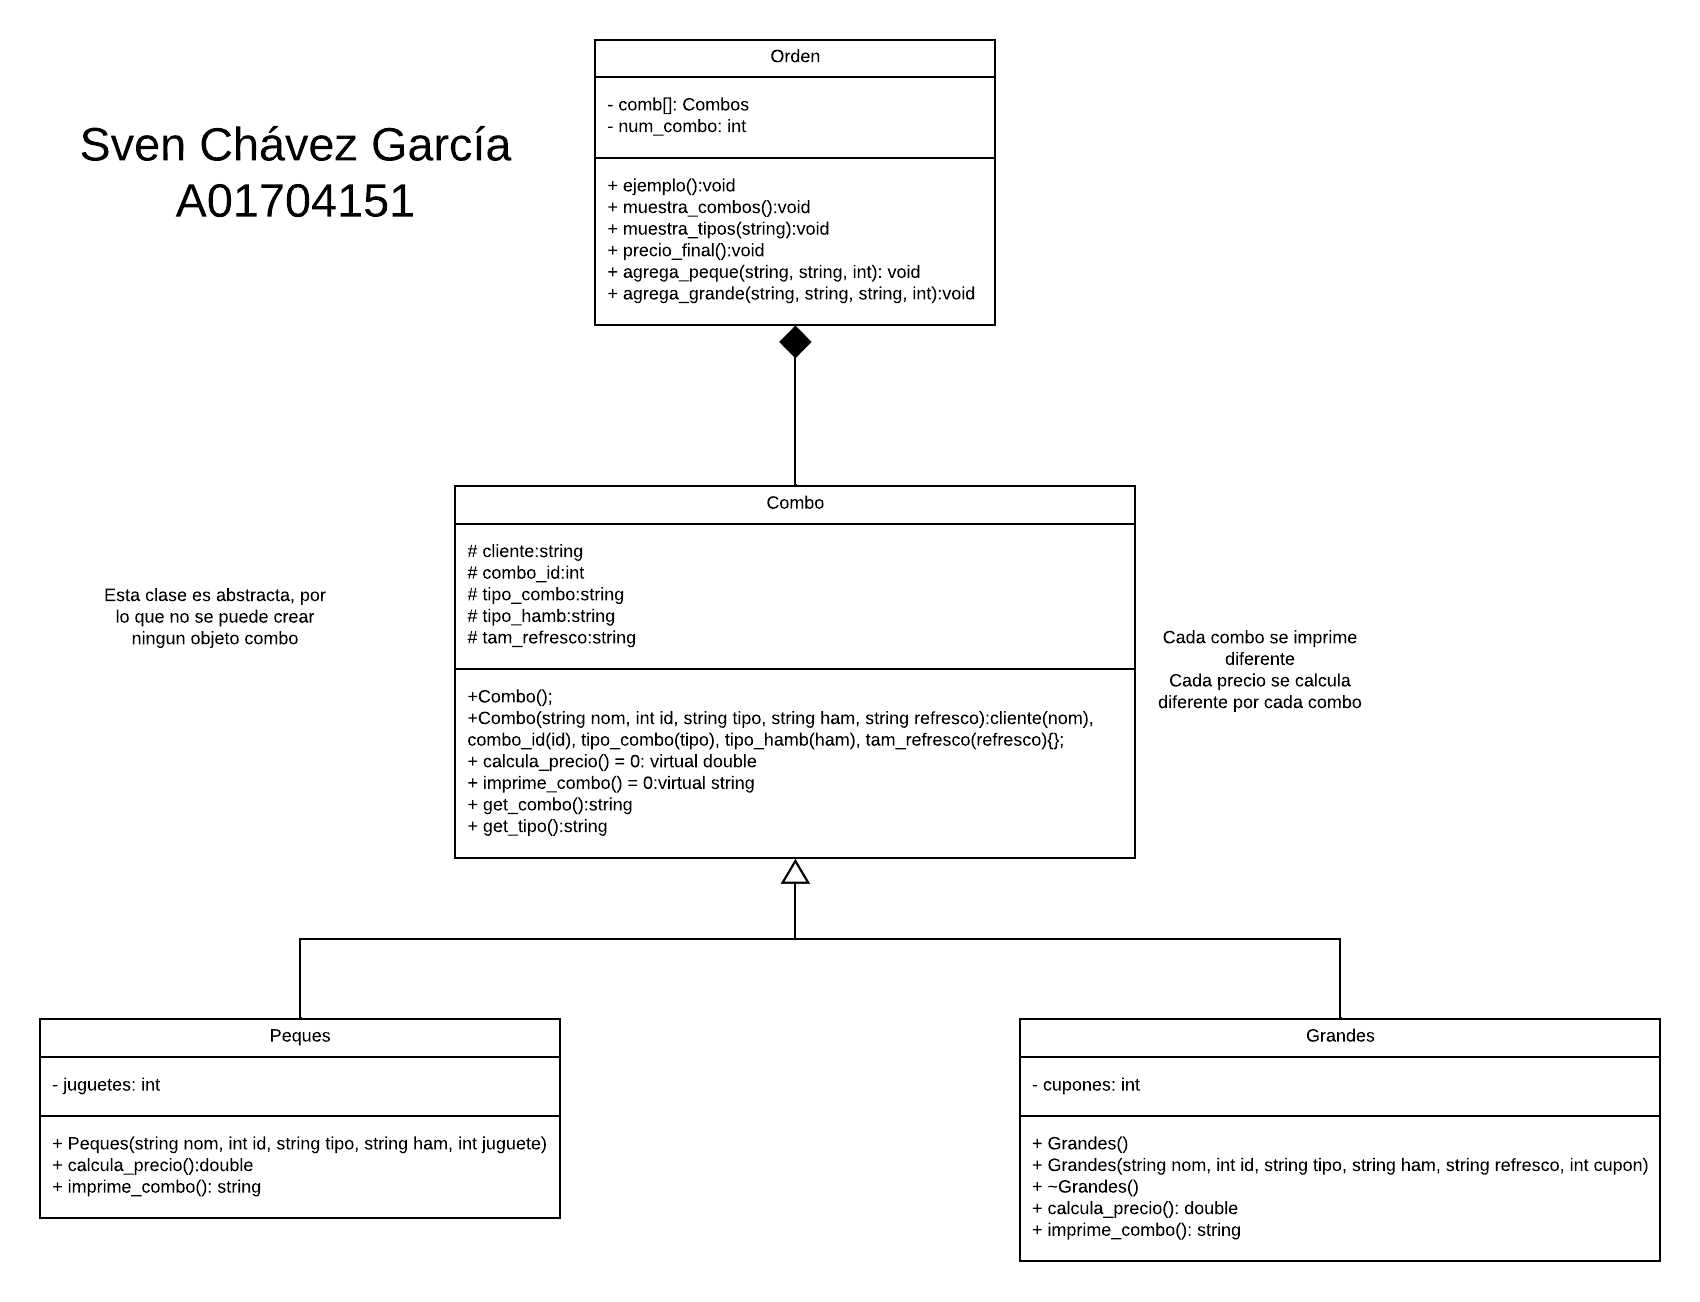
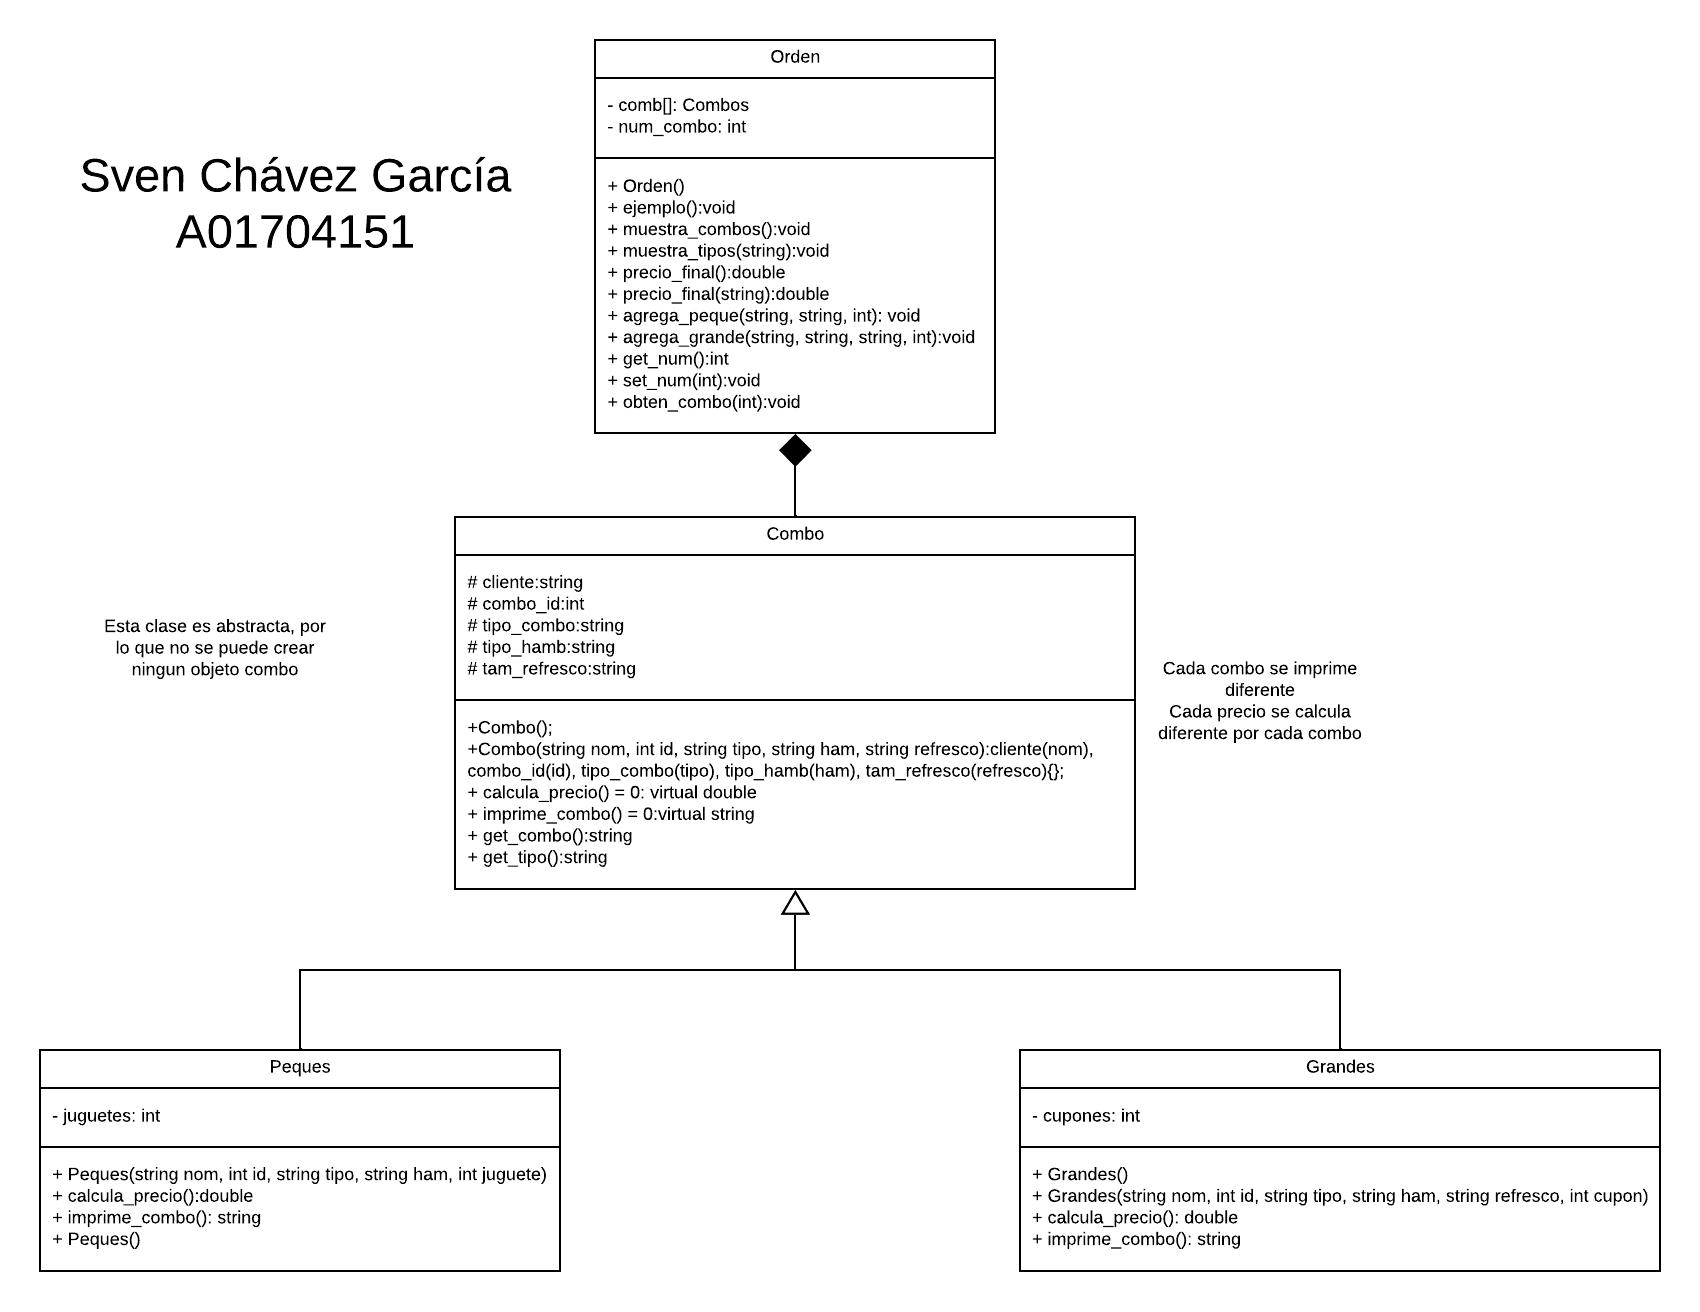
Add files via upload

diff --git a/Combo.h b/Combo.h
@@ -5,8 +5,7 @@
 #include <sstream>
 using namespace std;
 
-class Combo
-{
+class Combo{
 protected:
     string cliente;
     int combo_id;
@@ -15,72 +14,73 @@ protected:
     string tam_refresco;
 
 public:
+    Combo(): cliente("na"), combo_id(0), tipo_combo("na"), tipo_hamb("sencilla"), tam_refresco("chico"){};
     Combo(string nom, int id, string tipo, string ham, string refresco):cliente(nom), combo_id(id), tipo_combo(tipo), tipo_hamb(ham), tam_refresco(refresco){};
     virtual double calcula_precio() = 0; //aplicamos abstaccion o virtual puro por lo que no se puede crear un objeto combo 
-    virtual string imprime_combo(){string aux = "no aplica"; return aux;}; //aplicamos polimorfismo a traves del virtual
+    virtual string imprime_combo() = 0; //aplicamos polimorfismo a traves del virtual
     string get_combo();
     string get_tipo();
 };
-
+// este metodo regresa el tipo de combo y el cliente correspondiente 
 string Combo::get_combo(){
     string aux;
-    aux = " "+cliente+" de tipo: "+tipo_combo+"\n";
+    aux = " "+cliente+" de tipo: "+tipo_combo+"\n"; // se crea un auxiliar para el combo 
     return aux;
 }
-
+// devuelve el tipo 
 string Combo::get_tipo(){
     return tipo_combo;
 }
-
-class Peques: public Combo {
+// creamos la clase combo que sera hija de combo y por lo tanto se utiliza herencia
+class Peques: public Combo { //hacemos publica la clase combo 
 private:
     int juguetes;
 public:
-    //Peques(); //constructor default
+    Peques(): Combo(), juguetes(0){};
     Peques(string nom, int id, string tipo, string ham, int juguete):
     Combo(nom, id, tipo, ham, "pequeno"), juguetes(juguete){}; // constructor
     //~Peques();
-    double calcula_precio();
-    string imprime_combo();
+    double calcula_precio(); // aqui se aplica el polimorfismo 
+    string imprime_combo(); // aqui tambien aplica polimorfismo 
 };
 
+// se calcula el precio del combo considerando que es de tipo peques
 double Peques::calcula_precio(){
 
     double precio_ham, precio_juguetes;
     double precio_refresco = 25.5;
 
-    if (tipo_hamb == "doble"){
+    if (tipo_hamb == "doble"){// si la hmaburguesa es doble tiene un costo extra
         precio_ham = 89.9;
     }
-    else {precio_ham = 59.9;};
+    else {precio_ham = 59.9;}; // si la hamburguesa es sencilla tiene un costo base 
 
-    precio_juguetes = (double) juguetes * 35.5;
+    precio_juguetes = (double) juguetes * 35.5;// se considera a juguetes como double para multiplicarlo por el precio individual de cada uno
 
-    return precio_ham + precio_juguetes + precio_refresco;
+    return precio_ham + precio_juguetes + precio_refresco; // se devuelve la suma de todo 
 };
-
+// se imprime el combo considerando que es de tipo peques 
 string Peques::imprime_combo(){
-    stringstream prompt;
+    stringstream prompt; // se crea un auxiliar para concatenar un string 
     prompt<<"cliente: "<<cliente<<" su combo con numero: "<<combo_id<<" de tipo: Niños incluye una hamburguesa: "
     <<tipo_hamb<<" con refresco: pequeño y un total de "<<juguetes<<" juguetes."<<"\n"<<"Precio: "<<calcula_precio()<<"\n";
-    return prompt.str();
+    return prompt.str(); // se imprime el string 
 }
-
+// esta clase es hija de Combo 
 class Grandes: public Combo {
 private:
     int cupones;
 public:
-    Grandes(); // falta constructor default
+    Grandes(): Combo(), cupones(0){};
     Grandes(string nom, int id, string tipo, string ham, string refresco, int cupon):
-    Combo(nom, id, tipo, ham, refresco), cupones(cupon){};
-    ~Grandes();
-    double calcula_precio();
-    string imprime_combo();
+    Combo(nom, id, tipo, ham, refresco), cupones(cupon){}; // se asignan los atributos con el constructor 
+    double calcula_precio(); // polimorfismo
+    string imprime_combo(); // polimorfismo 
 };
-
+// se calcula el precio del combo basandose en las caracteristicas del combo grande 
 double Grandes::calcula_precio(){
-    double precio_ham, precio_juguetes, precio_refresco;
-    if (tam_refresco == "grande"){
+    double precio_ham, precio_juguetes, precio_refresco; // se definen las variables para cada uno de los articulos 
+    if (tam_refresco == "grande"){ // se avalua las caractristicas del combo 
         precio_refresco = 49.9;
     }
     else if (tam_refresco == "chico") {precio_refresco = 25.5;}
@@ -92,15 +92,15 @@ double Grandes::calcula_precio(){
     }
     else if (tipo_hamb == "sencilla") {precio_ham = 59.9;};
 
-    precio_juguetes = (double) cupones * 20;
+    precio_juguetes = (double) cupones * 20; // 
 
-    return precio_ham + precio_juguetes + precio_refresco;
+    return precio_ham + precio_juguetes + precio_refresco; // se regresa la suma de cada uno de los objetos 
 }
-
+// se imprime el combo correspondiente al combo grande (polimorfismo) 
 string Grandes::imprime_combo(){
     stringstream prompt;
     prompt<<"cliente: "<<cliente<<" su combo con numero: "<<combo_id<<" de tipo: Adulto incluye una hamburguesa: "
     <<tipo_hamb<<" con refresco: "<<tam_refresco<<" y un total de "<<cupones<<" cupones."<<"\n"<<"Precio: "<<calcula_precio()<<"\n";
-    return prompt.str();
+    return prompt.str(); // se regresa el string 
 }
 #endif

diff --git a/Orden.h b/Orden.h
@@ -1,5 +1,5 @@
 #ifndef ORDEN
-#define ORDEN
+#define ORDEN // se define para la clase orden 
 #include <iostream>
 #include <string>
 #include <sstream>
@@ -8,15 +8,13 @@
 
 const int MAX = 1000; //constante para un maximo de combos en una orden
 
-class Orden //aqui se creara la orden que contendra los combos
-{
+class Orden{ //aqui se creara la orden que contendra los combos
 private:
     Combo *comb[MAX]; //se define el arreglo de combos como apuntador
     int num_combo; //referencia para la posicion del arregglo
 
 public:
     Orden(): num_combo(0) {}; //constructor por default
-   // ~Orden(); //destructor
     void ejemplo();
     void muestra_combos();
     void muestra_tipos(string tipo);
@@ -28,78 +26,80 @@ public:
     int get_num(){return num_combo;};
     void set_num(int numero_combo);
 };
-// se crean ejemplos para el programa
+// se crean ejemplos de combo para el programa (objetos)
 void Orden::ejemplo(){
     comb[num_combo] = new Grandes("Sven", num_combo, "Adulto", "doble", "grande", 3);
-    num_combo++;
+    num_combo++; // se incrementa el indice para el arreglo de objetos 
     comb[num_combo] = new Grandes("Liliana", num_combo, "Adulto", "sencilla", "chico", 1);
     num_combo++;
     comb[num_combo] = new Peques("Romina", num_combo, "Niño", "doble", 2);
     num_combo++;
     comb[num_combo] = new Peques("Jagger", num_combo, "Niño", "sencilla", 1);
     num_combo++;
-}
-// se imprime el numero de combo y la persona y tipo de combo
+};
+// se imprime el numero de combo la persona y tipo de combo
 void Orden::muestra_combos(){
-    string aux;
-    for (int i = 0; i < num_combo; i++){
-        aux = comb[i]->get_combo();
-        cout<<"Combo: "<<i+1<<" de: "<<aux<<endl;
-    }
+    string duenio, tipo_;
+    for (int i = 0; i < num_combo; i++){ // for loop que nos ayuda a imprimir cada uno de los combos en el arreglo de combos 
+        duenio = comb[i]->get_combo(); // dado que es un apuntador se utiliza -> en vez de "." 
+        cout<<"Combo: "<<i+1<<" de: "<<duenio<<endl;
+    };
 };
 //se busca un tipo de combo especificio y se imprimen esos combos
 void Orden::muestra_tipos(string tipo){
-    for (int i = 0; i < num_combo; i++)
-        if (tipo == comb[i]->get_tipo()) {
+    for (int i = 0; i < num_combo; i++) {// for loop que nos permite evaluar cada combo en el arreglo de objetos de tipo combo 
+        if (tipo == comb[i]->get_tipo()) { // condicional que revisa que tipo de combos hay y devuelve los que coinciden 
             comb[i] -> get_combo();
-        }
-}
+        };
+    };
+};
 
-// se calcula el precio final
+// se calcula el precio final con base al calculo individual de cada combo dependiendo de su tipo 
 
 double Orden::precio_final(){
     double suma=0;
-    for (int i = 0; i < num_combo; i++){
+    for (int i = 0; i < num_combo; i++){ // for loop que nos permite ir incrementando el valor de suma 
         suma = suma + comb[i]->calcula_precio();
-    }
+    };
     return suma;
-}
+};
+
+// se implementa sobrecarga en uno de los metodos para hacer un descuento del 20% 
 
 double Orden::precio_final(string codigo_promo){
     double suma=0;
-    if (codigo_promo == "EL_MEJOR_PROYECTO"){
-        for (int i = 0; i < num_combo; i++){
+    if (codigo_promo == "EL_MEJOR_PROYECTO"){ // se evalua si efectivamente se tiene el codigo correcto 
+        /*for (int i = 0; i < num_combo; i++){// se implementa el precio de cada uno de los objetos 
             suma = suma + comb[i]->calcula_precio();
-        }
-        return suma*0.8;
-
+        }*/
+        return precio_final()*0.8; // se devuelve el precio menos el 20%
     }
     else {
         cout<<"el codigo es incorrecto, lo sentimos..."<<endl;
-        return precio_final();
+        return precio_final(); // si el codigo es incorrecto se devuele el precio final normal
 
-    }
-
+    };
 }
 //se agrega un combo de tipo peques
 void Orden::agrega_peque(string nombre, string hamburguesa, int toy){
-    comb[num_combo] = new Peques(nombre, num_combo, "Niño", hamburguesa, toy);
+    comb[num_combo] = new Peques(nombre, num_combo, "Niño", hamburguesa, toy); // se crea un objeto nuevo en el heap y se agrega en el arreglo de objetos 
     num_combo++;
 }
 
 //se agrega un combo de tipo grande
 
 void Orden::agrega_grande(string nombre, string hamburguesa, string refresco, int cup){
-    comb[num_combo] = new Grandes(nombre, num_combo, "Adulto", hamburguesa, refresco, cup);
+    comb[num_combo] = new Grandes(nombre, num_combo, "Adulto", hamburguesa, refresco, cup); // se crea un objeto nuevo en el heap y se agrega en el arreglo de objetos 
     num_combo++;
 }
-
+// se ingresa un numero y se revisa en el arreglo y devuelve el combo correspondiente 
 void Orden::obten_combo(int num){
-    if (num <= num_combo){
+    if (num <= num_combo){ // se hace una evaluacion sencilla para evitar que ingresen valores mas grandes que los que hay en el arreglo 
         comb[num]->get_combo();
     }
 }
+// se determina el indice del arreglo, esto puede hacer que se borren objetos ya creados 
 void Orden::set_num(int numero){
-    num_combo = numero;
+    num_combo = numero; 
 }
 #endif

diff --git a/main.cpp b/main.cpp
@@ -13,28 +13,28 @@
 #include <iostream>
 #include <string>
 #include "Combo.h"
-#include "Orden.h"
-#include <clocale>
-using namespace std;
+#include "Orden.h"// importamos los headers de las clases 
+#include <clocale>//importamos las librerias que vamos a utilizar 
+using namespace std; // utilizando el estandar de escritura 
 
 int main(){
-  setlocale(LC_CTYPE, "Spanish");
-  cout<<"bienvenido al sistema de hamburguesas..."<<endl<<"que te gustaría hacer?"<<endl;
+  setlocale(LC_CTYPE, "Spanish"); // para que se puedan ver las ñ 
+  cout<<"bienvenido al sistema de hamburguesas..."<<endl<<"que te gustaría hacer?"<<endl; 
   cout<<"1. correr simulacion"<<endl<<"2. hacer un ejemplo personalizado"<<endl;
   int opcion = 0;
   cin>>opcion;
   if (opcion == 1) {
     Orden orden1;
-    orden1.ejemplo();
+    orden1.ejemplo(); // se corren ejemplos de clases para hacer una demostracion simple 
     cout<<"en total hay: "<<orden1.get_num()<<" combos"<<endl;
-    orden1.muestra_combos();
+    orden1.muestra_combos(); // mostramos los combos almacenados en el heap 
     orden1.muestra_tipos("Adulto");
     cout<<"El precio final es de: \t"<<orden1.precio_final()<<endl;
-    orden1.obten_combo(1);
-    orden1.agrega_grande("Benja", "doble", "grande", 5);
+    orden1.obten_combo(1); // obtenemos el combo correspondiente a esa posicion 
+    orden1.agrega_grande("Benja", "doble", "grande", 5); // agregamos un nuevo objeto 
     orden1.agrega_peque("arturito", "sencilla", 4);
-    orden1.muestra_combos();
-    cout<<"el precio final actualizado es de con dos combos nuevos es: \t"<<orden1.precio_final()<<endl;
+    orden1.muestra_combos(); //  volvemos a mostrar los combos 
+    cout<<"el precio final actualizado es de con dos combos nuevos es: \t"<<orden1.precio_final()<<endl; //mostramos el precio final de todos los combos 
     }
   else if (opcion == 2){
     Orden orden2;
@@ -49,11 +49,11 @@ int main(){
         string tipo_hamburguesa;
         cin>>tipo_hamburguesa;
         for_each(tipo_hamburguesa.begin(), tipo_hamburguesa.end(), [](char & c) {
-          c = ::tolower(c);});
-        cout<<"cuantos juguetes quisiera agregar?"<<endl;
+          c = ::tolower(c);}); // se transforma cualquier string a minusculas 
+        cout<<"cuantos juguetes quisiera agregar?"<<endl; 
         int juguetes;
         cin>>juguetes;
-        orden2.agrega_peque(nombre, tipo_hamburguesa, juguetes);
+        orden2.agrega_peque(nombre, tipo_hamburguesa, juguetes); // se crea combo para peques 
       }
       else if (opcion == 2) {
         cout<<"por favor indica el nombre"<<endl;
@@ -72,9 +72,9 @@ int main(){
         cout<<"cuantos cupones quisiera agregar?"<<endl;
         int cupones;
         cin>>cupones;
-        orden2.agrega_grande(nombre, tipo_hamburguesa, tipo_refresco, cupones);
+        orden2.agrega_grande(nombre, tipo_hamburguesa, tipo_refresco, cupones); // se crea combo para adultos 
       };
-    } while (opcion != 3);
+    } while (opcion != 3); // cuando se deje de cumplir la condicion continua el codigo 
     cout<<"sus combos son: "<<endl;
     orden2.muestra_combos();
     cout<<"su precio final es: "<<orden2.precio_final()<<endl;
@@ -82,10 +82,10 @@ int main(){
     string juramento;
     cin>>juramento;
     if (juramento == "si"){
-      cout<<"su nuevo precio es: "<<orden2.precio_final("EL_MEJOR_PROYECTO")<<endl;
+      cout<<"su nuevo precio es: "<<orden2.precio_final("EL_MEJOR_PROYECTO")<<endl; // se hace un descuento del 20%
     }
     else{
-      cout<<"buuuuuuuu";
+      cout<<"buuuuuuuu \n";
     }
 
   };
